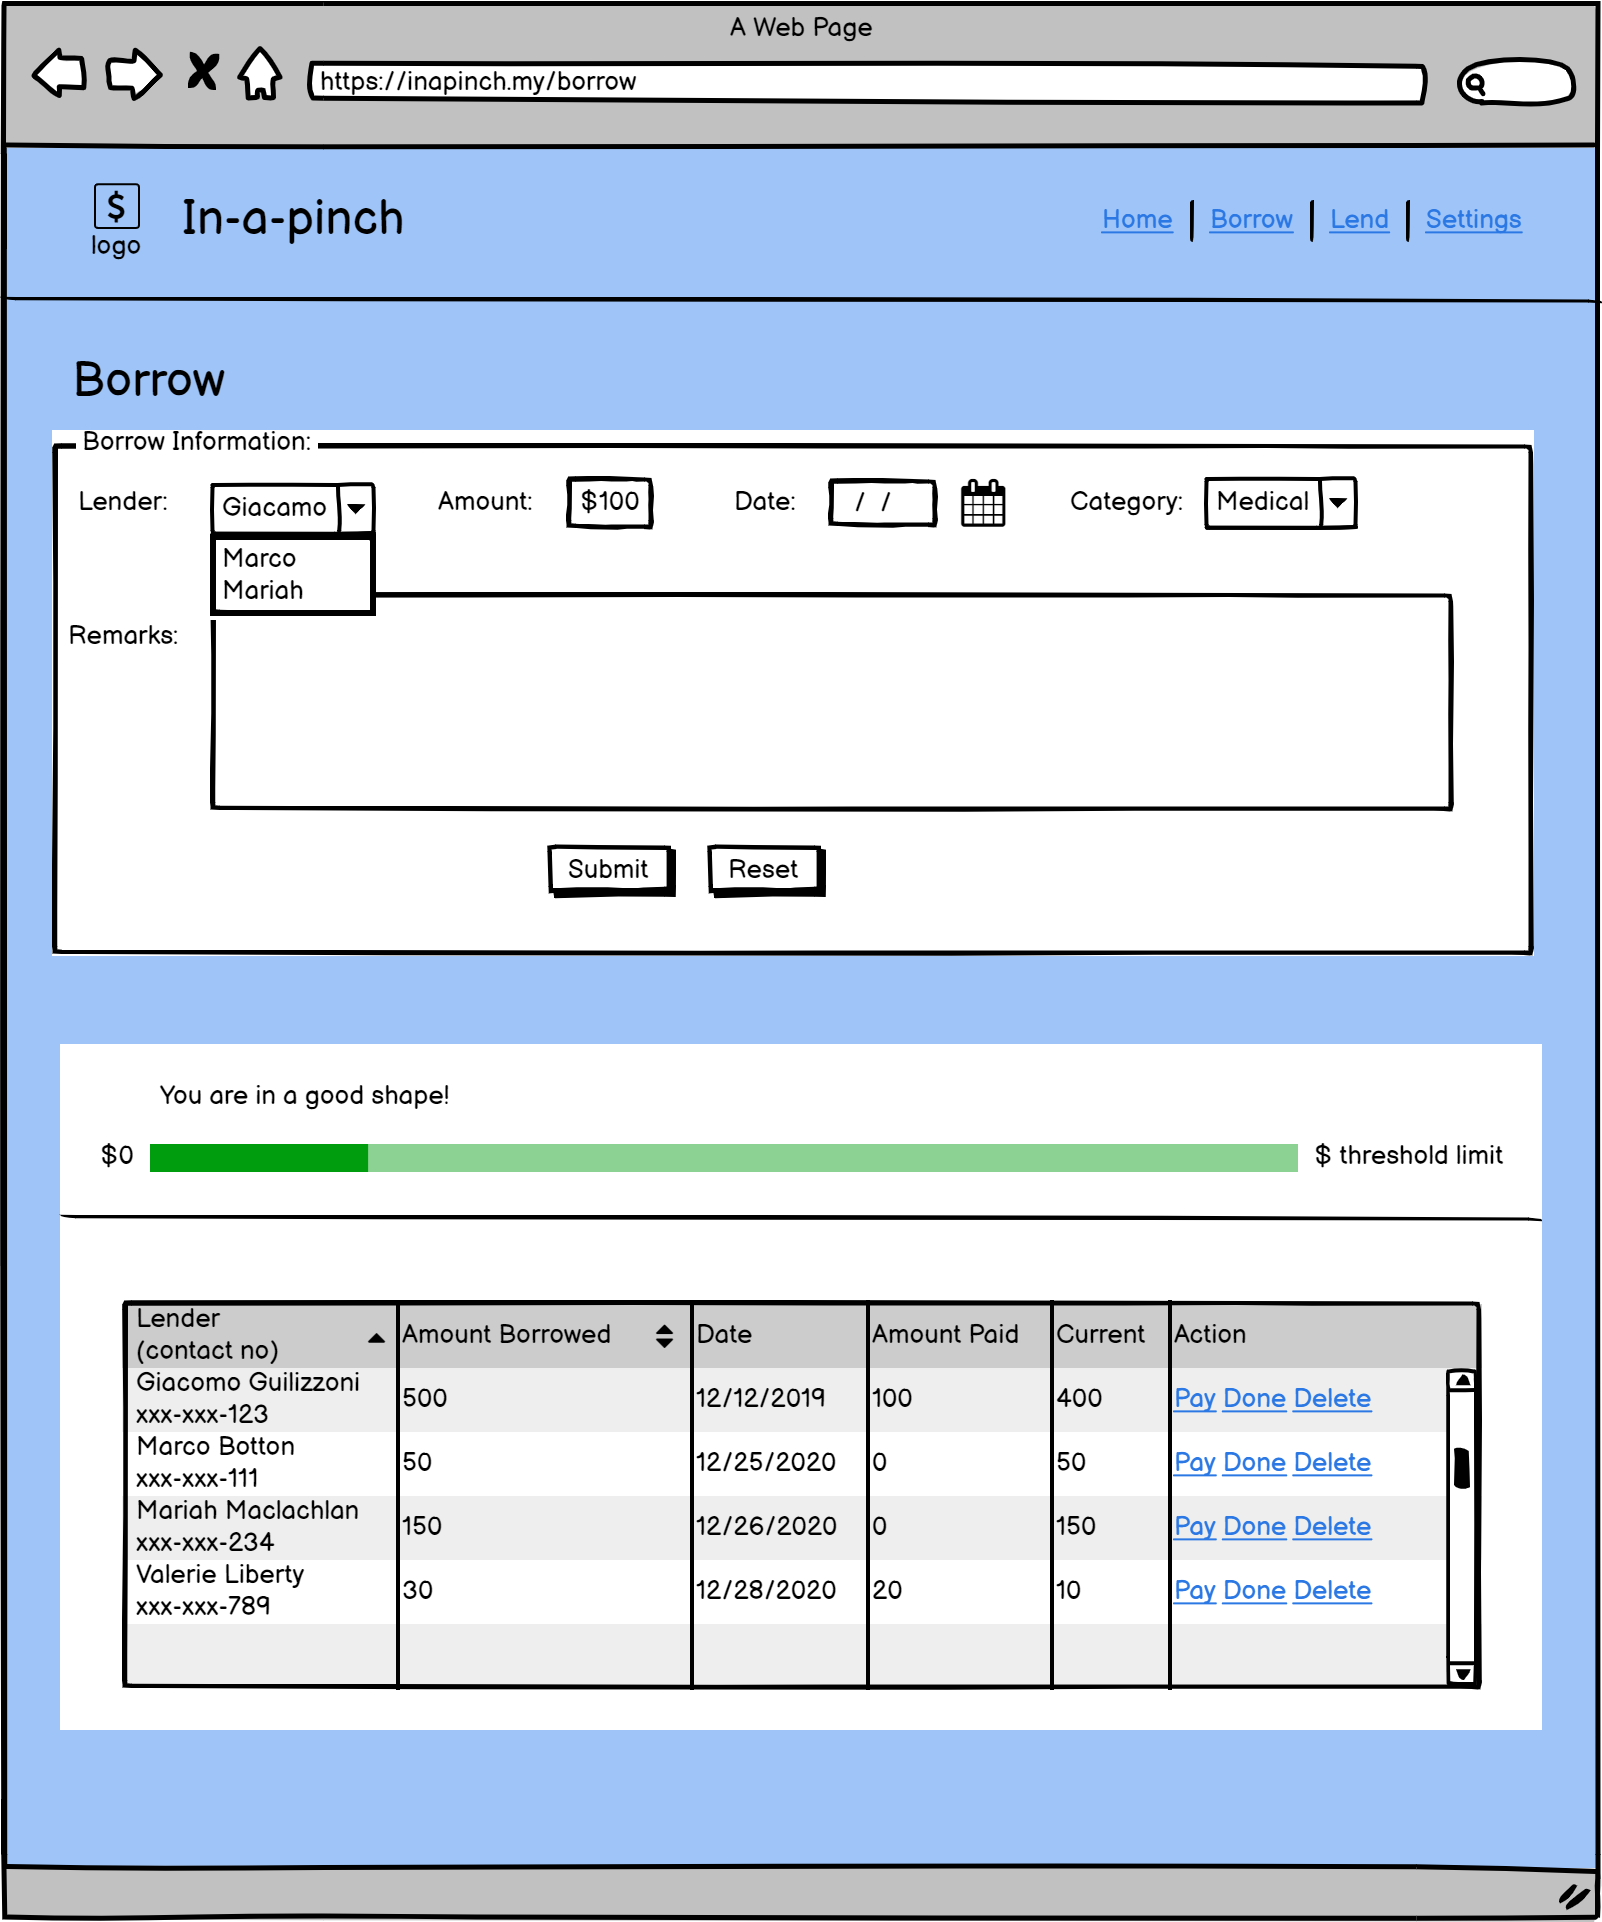
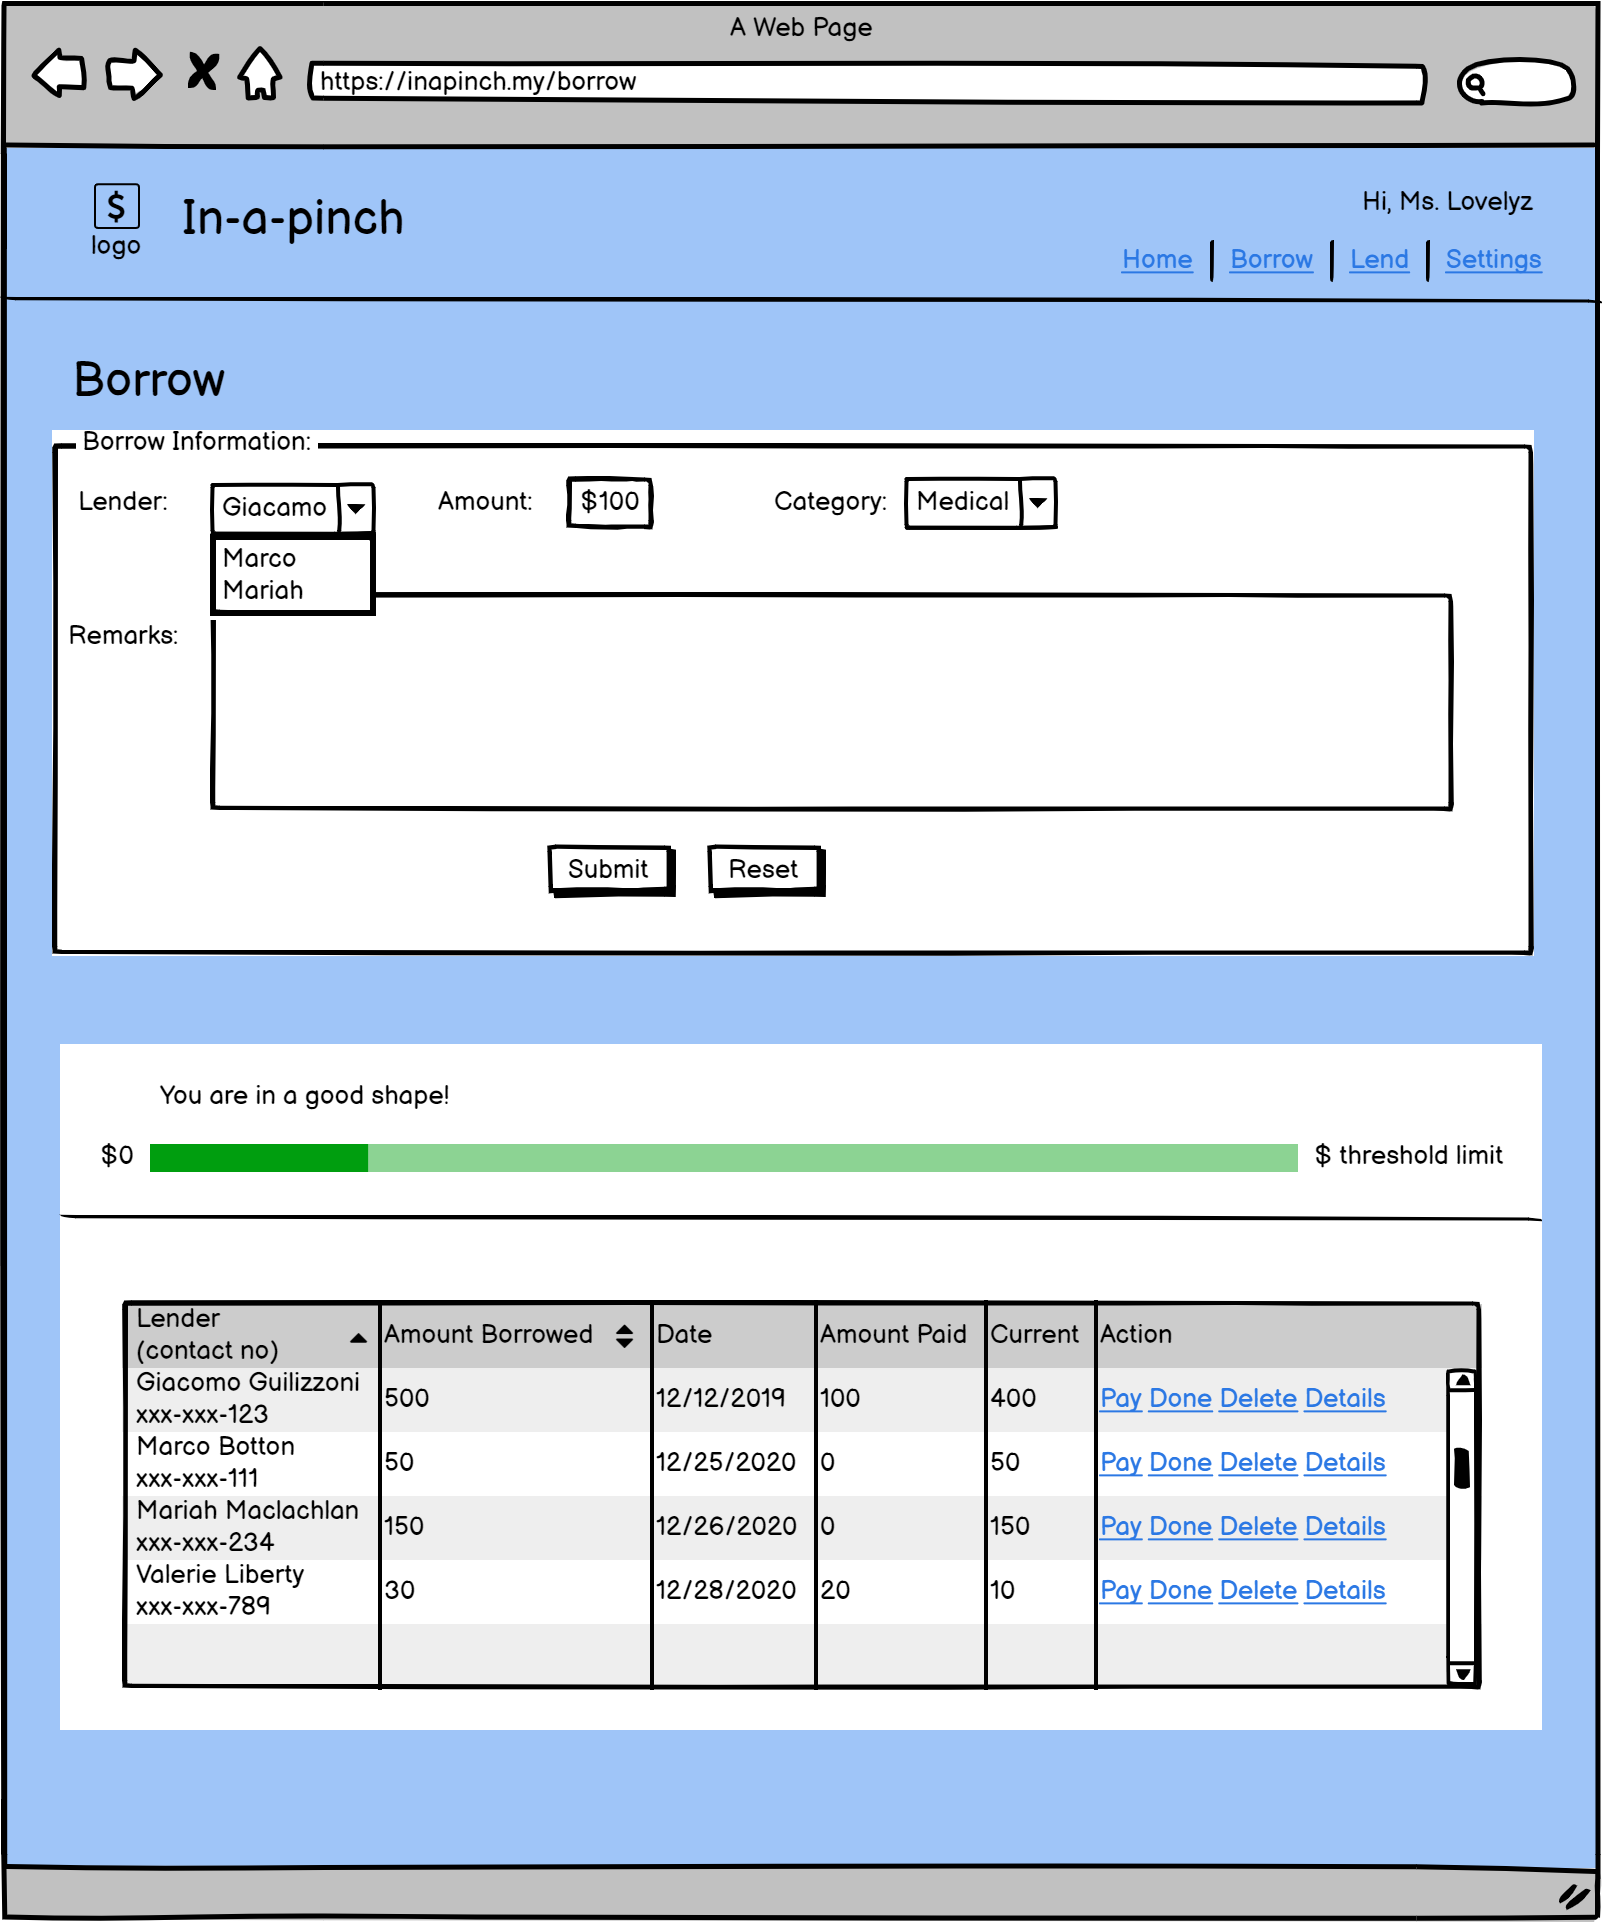
add working portion of vue project with loanpage, loanform

diff --git a/client/src/components/LoanPage.vue b/client/src/components/LoanPage.vue
@@ -1,6 +1,7 @@
 <template>
   <div class="loanpage">
-    <h1>this is loan</h1>
+    <h1>Add Loan ({{ loantype }})</h1>
+    <loan-form :uid="uid" :contacts="contacts" :categories="categories" :loantype="loantype" />
     <p>
       This page will have the Loan Form and the Loan list. 
       First phase will be solely for Loan type = 'borrow'
@@ -10,35 +11,65 @@
 </template>
 
 <script>
+import LoanForm from './LoanForm.vue';
+
 export default {
+  components: { LoanForm },
   name: 'LoanPage',
   props: {
-    loantype: String
+    uid: Number,
+    loantype: String, 
+  },
+  data () {
+    return {
+      categories: [],
+      contacts: [],      
+      loans:[]
+    };
   },
   methods: {
     getCategories() {
-      fetch("./api/categories")
+      fetch("/api/categories")
         .then(response => response.json())
         .then(data => {
-          this.categoryList = data;
-          //console.log(this.categoryList);
+          this.categories = data;
         });
     },
-    getContacts() {
-      fetch("/api/contacts")
+    getContacts(uid) {
+      fetch("/api/contacts/" + uid)
         .then(response => response.json())
-        .then(data => this.contactsList = data);
-    },    
+        .then(data => this.contacts = data);
+    },
     getLoansSummary(id, type) {
         fetch("/api/loans/summary/" + id + "/" + type)
             .then(response => response.json())
-            .then(data => this.loanList = data);
-    },    
+            .then(data => this.loans = data);
+    },
+    addStudents(uid, type, data) {
+      fetch("/api/loans", {
+        method: "POST",
+        headers: {
+          "Content-Type": "application/json"
+        },
+        body: JSON.stringify(data)
+      })
+      .then(response => {
+        response.json();
+        this.getLoansSummary(uid, type);
+      })
+      .catch(error => {
+        console.error("Error in add: ", error);
+      });
+    }
+  },
+  created () {
+    this.getCategories();
+    this.getContacts(this.uid);
   },
   mounted () {
-    this.getCategories();
-    console.log(this.categoryList);
-    console.log("hello");
+    // this.getCategories();
+    // this.getContacts();
+
   }
 }
 </script>

diff --git a/client/src/components/LoanForm.vue b/client/src/components/LoanForm.vue
@@ -1,6 +1,29 @@
 <template>
-    <div class="loan">
+    <div class="loanform">
         The Loan form for borrowing entry
+        <form>
+            <label>Contact Name:</label>
+            <select v-model="contact_id">
+                <option disabled value="">Please select one</option>
+                <option v-for="contact in contacts" v-bind:value="contact.id" :key="contact.id">
+                    {{ contact.name }}
+                </option>
+            </select>
+            <label>Amount:</label>
+            <input v-model="initial_amount"
+                type="text"
+            />
+            <label>Category:</label>
+            <select v-model="category_id">
+                <option disabled value="">Please select one</option>
+                <option v-for="category in categories" v-bind:value="category.id" :key="category.id">
+                    {{ category.category_name }}
+                </option>
+            </select>            
+            <label>Remarks</label>
+            <textarea v-model="remarks" rows="7" />
+
+        </form>
     </div>
 
 </template>
@@ -9,9 +32,22 @@
 export default {
     name: 'LoanForm',
     props: {
-        userId: Number,
+        uid: Number,
+        loantype: String,
         contacts: Array,
         categories: Array
+    },
+    data () {
+        return {
+            user_id: this.uid,
+            contact_id: null,
+            date: null,
+            initial_amount: 0,
+            category_id: null,
+            remarks: "",
+            status: "active",
+            type: this.loantype
+        };
     },
     methods: {
 

diff --git a/client/src/App.vue b/client/src/App.vue
@@ -1,10 +1,10 @@
 <template>
   <div id="app">
     <div id="header">
-      In-a-Pinch
-      Welcome {{name}}!
+      <div>In-a-Pinch</div>
+      <div>Welcome {{name}}! </div>
     </div>
-    <loan-page :loantype="loantype" />
+    <loan-page :uid="userId" :loantype="loantype" />
    </div>
 </template>
 
@@ -21,21 +21,17 @@ export default {
       userId: 1, //dummy user
       name: "Lovelyz",  
       loantype: "borrow",
-      contactsList: []      
     };
   },
   methods: {
-    getContacts() {
-      fetch("/api/contacts")
-        .then(response => response.json())
-        .then(data => {
-          this.contactsList = data;
-          console.log("===> ", this.contactsList);
-        });
-    }
+
+    
+  },
+  created () {
+
   },
   mounted () {
-    this.getContacts();
+
 
   }
   

diff --git a/routes/api.js b/routes/api.js
@@ -29,9 +29,9 @@ router.get("/categories", (req, res) => {
     .catch(err => res.status(500).send(err));
 });
 
-router.get("/contacts", (req, res) => {
+router.get("/contacts/:id", (req, res) => {
   // Send back the full list of items
-  db("SELECT id, name FROM contacts ORDER BY name ASC;")
+  db("SELECT id, name FROM contacts WHERE user_id = ? ORDER BY name ASC;", req.params.id)
     .then(results => {
       res.send(results.data);
     })
@@ -49,6 +49,7 @@ router.get("/loans/:id", (req, res) => {
 });
 
 //get loan data (summary)
+//id = user id
 //type = 'borrow' or 'lend'
 router.get("/loans/summary/:id/:type", (req, res) => {
   // Send back the full list of items

diff --git a/client/vue.config.js b/client/vue.config.js
@@ -1,0 +1,12 @@
+module.exports = {
+  devServer: {
+    proxy: {
+      '^/api': {
+        target: 'http://localhost:5000',
+        changeOrigin: true,
+        pathRewrite: {'^/api': '/api'},
+        logLevel: 'debug' 
+      }
+    }
+  }
+};
